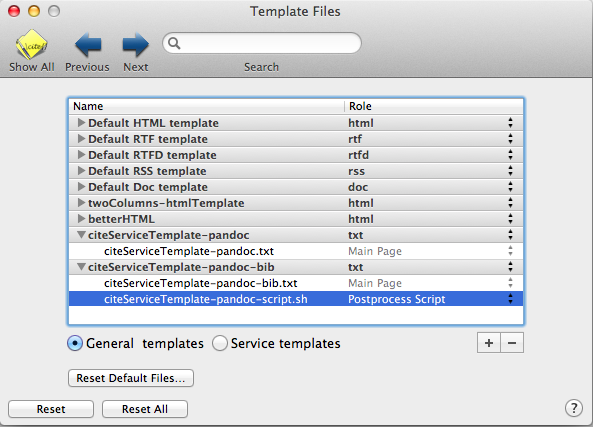
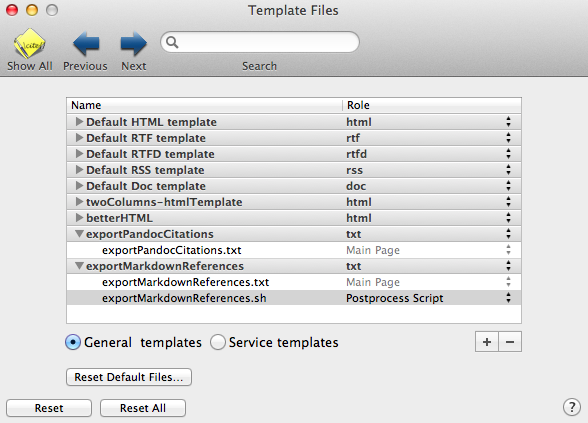
renaming templates and scripts; updating screenshots

diff --git a/README.md b/README.md
@@ -1,7 +1,7 @@
 Dragging and Dropping Pandoc-Style Citations from BibDesk
 =========================================================
 
-`citeServiceTemplate-pandoc.txt` is a [BibDesk][] template that exports
+`exportPandocCitations.txt` is a [BibDesk][] template that exports
 [pandoc][]-style citations.
 
 You can use this to drag and drop citations from BibDesk into your
@@ -13,8 +13,8 @@ two citations into this README in MacVim:
 Exporting Markdown-formatted Reference Lists from BibDesk
 =========================================================
 
-`citeServiceTemplate-pandoc-bib.txt` and
-`citeServiceTemplate-pandoc-bib-script.sh` are a BibDesk template and a
+`exportMarkdownReferences.txt` and
+`exportMarkdownReferences.sh` are a BibDesk template and a
 postprocessing shell script that together export markdown formatted
 reference lists.
 
@@ -24,22 +24,28 @@ option-dragged this list:
 
     Beiser, Frederick C. 1993. *The Fate of Reason: German Philosophy From Kant To Fichte*. Harvard University Press. 
 
-    Wood, Allen W. 2006. “Fichte’s Intersubjective I.” *Inquiry* 49 (1) (Feb): 62–79. 
+    Wood, Allen W. 2006. “Fichte’s Intersubjective I.” *Inquiry* 49 (1) (Feb): 62–79.
 
 Installation
 ============
+
+Adding the Templates
+--------------------
 
 First, follow [these instructions][] to add the templates to BibDesk.
 When you are done, things should look like this:
 
 ![Screenshot: Adding the Template to BibDesk][]
 
+Configuring Drag and Drop Support
+---------------------------------
+
 I prefer to configure BibDesk to drag and drop citations, and option drag and drop formatted references. To set this up, in the "Citation" Preference Pane:
 
 -   set `Default Format` to `Template`, then set `Template` to
-    `citeServiceTemplate-pandoc.txt`;
+    `exportPandocCitations.txt`;
 -   set the `Format when holding Option key` to `Template`, then set
-    `Template` to `citeServiceTemplate-pandoc-bib.txt`.
+    `Template` to `exportMarkdownReferences.txt`.
 
 So things should look like this:
 
@@ -57,9 +63,9 @@ installed. The script looks for pandoc in `$HOME/.cabal/bin` and
 `/usr/local/bin`. If it is not found, you will get the following error
 message:
 
-    Cannot find pandoc in path. Edit the PATH variable in citeServiceTemplate-pandoc-bib-script.sh
+    Cannot find pandoc in path. Edit the PATH variable in exportMarkdownReferences.sh
 
-To fix this, edit line 6 of `citeServiceTemplate-pandoc-bib-script.sh`,
+To fix this, edit line 6 of `exportMarkdownReferences.sh`,
 replacing
 
     PATH=$HOME/.cabal/bin:/usr/local/bin:$PATH
@@ -68,12 +74,16 @@ with
 
     PATH=/path/to/pandoc:$PATH
 
-Citation Styles
----------------
+Other Output Formats and Styles
+-------------------------------
 
-The post-processing script uses your default [csl style][]. If you want
+`exportMarkdownReferences` provides a model that could be used to export bibliographies in any of the styles supported by [csl][] and any of the output formats supported by pandoc.
+
+The post-processing script uses your default csl style. If you want
 it to use a different style, you will need to modify the script to pass
-the `--csl` command line option to pandoc.
+the `--csl=/path/to/example.csl` option to pandoc.
+
+Modifying the script to output other plain-text formats, like HTML or RST, is a matter of replacing `-t markdown` with `-t html` or `-t RST`. Modifying the script to output non-plain-text formats, like DOCX, ODT, and PDF, would require a little bit more work, but not much.
 
 Slowness
 --------
@@ -88,4 +98,4 @@ with a 1307 entry bibtex file, the delay is less than a second.
   [these instructions]: http://sourceforge.net/apps/mediawiki/bibdesk/index.php?title=Templates#Adding_a_Template_to_BibDesk
   [Screenshot: Adding the Template to BibDesk]: adding-bibdesk-template.png
   [Screenshot: Configuring BibDesk to use Template for Drag and Drop Citations]: citation-screenshot.png
-  [csl style]: https://github.com/citation-style-language/styles
+  [csl]: https://github.com/citation-style-language/styles
